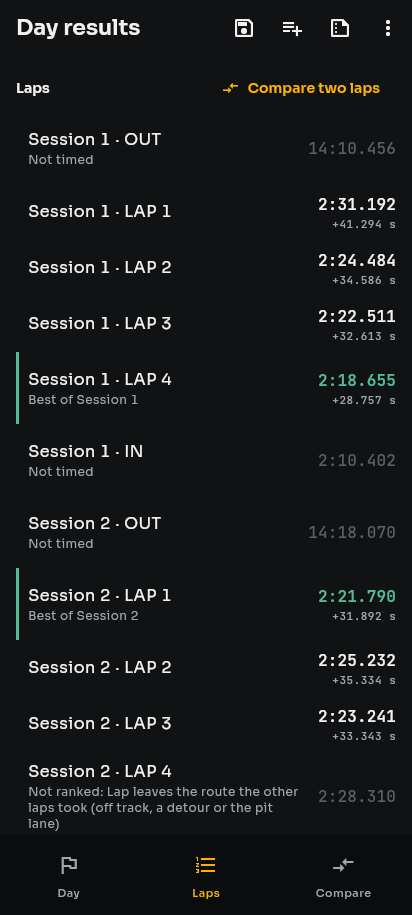
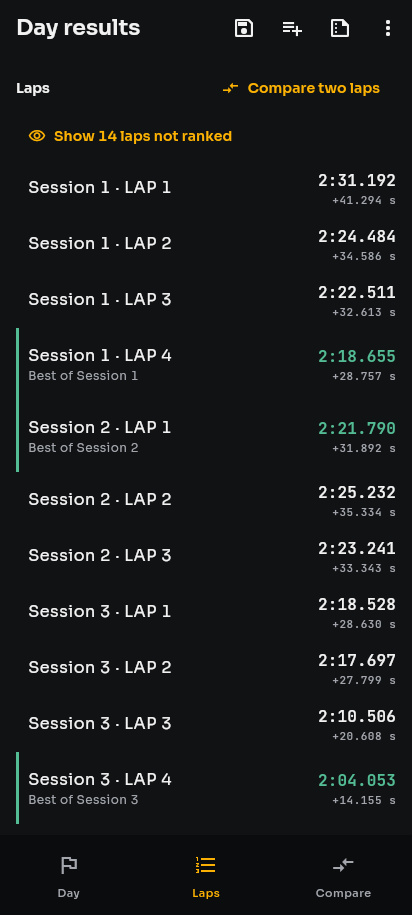
FET-153: hide laps not ranked in the lap list, with a show/hide button
Out laps, in laps, sections without a start/finish pass, excluded laps
and laps with an issue are hidden from the day's lap list by default.
"Show N laps not ranked" brings them back; the choice is remembered on
the device in settings.json. Only the list changes: the day, its
.fetproject and the recordings keep every lap. With no ranked lap the
list shows everything. Guide, screenshots and Polish strings updated.

Claude-Session: https://claude.ai/code/session_015nymQH33NBGSSd59iCbhRx

diff --git a/test/day/day_results_page_test.dart b/test/day/day_results_page_test.dart
@@ -19,6 +19,7 @@ import 'package:telemetry/format.dart';
 import 'package:telemetry/main.dart';
 import 'package:telemetry/settings_dialog.dart';
 import 'package:telemetry/ui/theme.dart';
+import 'package:telemetry/units.dart';
 import 'package:telemetry_core/telemetry_core.dart';
 
 import 'blank_tiles.dart';
@@ -151,9 +152,53 @@ void main() {
       find.text(displayDelta(second.durationSeconds - best.durationSeconds)),
       findsOneWidget,
     );
-    // OUT, 3 laps, IN; OUT, 2 laps, IN.
+    // OUT, 3 laps, IN; OUT, 2 laps, IN: the out and in laps are not
+    // ranked, so the list hides them until asked.
+    addTearDown(() => hideUnrankedLapsSetting.value = true);
+    expect(hideUnrankedLapsSetting.value, isTrue);
+    expect(find.textContaining(' · OUT'), findsNothing);
+    expect(find.textContaining(' · IN'), findsNothing);
+    expect(find.textContaining(' · LAP '), findsNWidgets(5));
+    await tester.tap(find.text('Show 4 laps not ranked'));
+    await tester.pumpAndSettle();
     expect(find.textContaining(' · OUT'), findsNWidgets(2));
     expect(find.textContaining(' · IN'), findsNWidgets(2));
+    // The choice is the device's setting.
+    expect(hideUnrankedLapsSetting.value, isFalse);
+    await tester.tap(find.text('Hide laps not ranked'));
+    await tester.pumpAndSettle();
+    expect(find.textContaining(' · OUT'), findsNothing);
+    expect(hideUnrankedLapsSetting.value, isTrue);
+  });
+
+  testWidgets('with no ranked lap, the lap list shows every lap', (
+    tester,
+  ) async {
+    final outcome = importDay({
+      'a.vbo': [30, 28, 31],
+    });
+    final controller = DayResultsController(
+      runs: outcome.runs,
+      analysis: outcome.analysis!,
+    );
+    for (final lap in outcome.analysis!.ranking!.eligibleLaps.toList()) {
+      expect(controller.exclude(lap, 'Traffic'), isTrue);
+    }
+    expect(controller.ranking?.eligibleLaps ?? const [], isEmpty);
+    await tester.binding.setSurfaceSize(const Size(400, 1600));
+    addTearDown(() => tester.binding.setSurfaceSize(null));
+    await tester.pumpWidget(
+      TelemetryApp(home: DayResultsPage.controller(controller: controller)),
+    );
+    await tester.tap(find.widgetWithText(NavigationDestination, 'Laps'));
+    await tester.pumpAndSettle();
+    expect(hideUnrankedLapsSetting.value, isTrue);
+    expect(find.byKey(const ValueKey('lapsUnrankedToggle')), findsNothing);
+    expect(find.text('Excluded: Traffic'), findsNWidgets(3));
+    expect(find.textContaining(' · OUT'), findsOneWidget);
+    expect(find.textContaining(' · IN'), findsOneWidget);
+    // Hiding never changed the day.
+    expect(controller.analysis.rows, hasLength(5));
   });
 
   for (final (name, size, section) in [
@@ -279,6 +324,12 @@ void main() {
       );
 
       await tester.pageBack();
+      await tester.pumpAndSettle();
+      // The excluded lap leaves the list with the out and in laps, until
+      // they are shown.
+      addTearDown(() => hideUnrankedLapsSetting.value = true);
+      expect(find.text('Excluded: Traffic'), findsNothing);
+      await tester.tap(find.text('Show 3 laps not ranked'));
       await tester.pumpAndSettle();
       expect(find.text('Excluded: Traffic'), findsOneWidget);
       expect(find.text(second.displayName), findsWidgets);
@@ -477,6 +528,11 @@ void main() {
     await tester.pumpAndSettle();
     expect(find.text('Porównaj dwa okrążenia'), findsOneWidget);
     expect(find.text('Najlepsze okrążenie dnia'), findsOneWidget);
+    expect(find.text('Sesja 2 · OKR. WYJAZDOWE'), findsNothing);
+    addTearDown(() => hideUnrankedLapsSetting.value = true);
+    await tester.tap(find.text('Pokaż 4 niesklasyfikowane okrążenia'));
+    await tester.pumpAndSettle();
+    expect(find.text('Ukryj niesklasyfikowane okrążenia'), findsOneWidget);
     expect(find.text('Sesja 2 · OKR. WYJAZDOWE'), findsOneWidget);
     expect(find.text('Sesja 1 · OKR. 2'), findsWidgets);
 
@@ -725,6 +781,11 @@ void main() {
         home: DayResultsPage.opened(day: opened, documents: documents),
       ),
     );
+    await tester.pumpAndSettle();
+    // Hidden with the laps that are not ranked, and there when shown.
+    addTearDown(() => hideUnrankedLapsSetting.value = true);
+    expect(find.text('Excluded: Traffic'), findsNothing);
+    await tester.tap(find.byKey(const ValueKey('lapsUnrankedToggle')));
     await tester.pumpAndSettle();
     expect(find.text('Excluded: Traffic'), findsOneWidget);
     expect(

diff --git a/lib/units.dart b/lib/units.dart
@@ -38,6 +38,13 @@ final ValueNotifier<SpeedUnitSetting> speedUnitSetting = ValueNotifier(
 /// and kept in `settings.json` with [speedUnitSetting]. On by default.
 final ValueNotifier<bool> weatherLookupSetting = ValueNotifier(true);
 
+/// Whether the lap list hides the laps that are not ranked (out and in
+/// laps, sections without a start/finish pass, excluded laps and laps with
+/// an issue), chosen with the list's
+/// show and hide button and kept in `settings.json`. On by default. Only
+/// the list changes: the day and its recordings keep every lap.
+final ValueNotifier<bool> hideUnrankedLapsSetting = ValueNotifier(true);
+
 /// The speed unit each of the open day's recordings declares ("km/h",
 /// "mph", or empty when it declares none). Set when a day opens.
 List<String> declaredSpeedUnits = const [];
@@ -109,7 +116,8 @@ String displayUnit(String name, String unit) {
   return daySpeedUnit(declared, speedUnitSetting.value.unit);
 }
 
-/// Reads and keeps [speedUnitSetting] and [weatherLookupSetting] in
+/// Reads and keeps [speedUnitSetting], [weatherLookupSetting] and
+/// [hideUnrankedLapsSetting] in
 /// `settings.json` in the app's support folder. Off in `flutter test`.
 Future<void> loadSettings() async {
   if (kIsWeb || Platform.environment.containsKey('FLUTTER_TEST')) return;
@@ -132,6 +140,9 @@ Future<void> loadSettings() async {
       if (json is Map && json['weatherLookup'] is bool) {
         weatherLookupSetting.value = json['weatherLookup'] as bool;
       }
+      if (json is Map && json['hideUnrankedLaps'] is bool) {
+        hideUnrankedLapsSetting.value = json['hideUnrankedLaps'] as bool;
+      }
     }
   } on Exception catch (error) {
     debugPrint('Settings not read: $error');
@@ -143,6 +154,7 @@ Future<void> loadSettings() async {
         jsonEncode({
           'speedUnit': speedUnitSetting.value.name,
           'weatherLookup': weatherLookupSetting.value,
+          'hideUnrankedLaps': hideUnrankedLapsSetting.value,
         }),
       );
     } on Exception catch (error) {
@@ -152,6 +164,7 @@ Future<void> loadSettings() async {
 
   speedUnitSetting.addListener(write);
   weatherLookupSetting.addListener(write);
+  hideUnrankedLapsSetting.addListener(write);
 }
 
 /// Rebuilds what shows a speed unit when [speedUnitSetting] changes; put

diff --git a/lib/day/day_results_page.dart b/lib/day/day_results_page.dart
@@ -16,6 +16,7 @@ import '../import/day_import_page.dart'
 import '../import/import_review_page.dart';
 import '../l10n.dart';
 import '../settings_dialog.dart';
+import '../units.dart' show hideUnrankedLapsSetting;
 import 'background_task.dart';
 import 'channel_cards.dart';
 import 'comparison_page.dart';
@@ -1550,7 +1551,45 @@ class _DayResultsPageState extends State<DayResultsPage> {
             ),
         ],
       ),
-      for (final row in _controller.analysis.rows) _lapTile(context, row),
+      ..._lapRows(context),
+    ];
+  }
+
+  /// The lap list's rows. The laps that are not ranked (out and in laps,
+  /// sections without a start/finish pass, excluded laps, laps with an
+  /// issue) are hidden while the setting says so and the day has a ranked
+  /// lap to show instead; a button shows or hides them. The day keeps every
+  /// lap either way.
+  List<Widget> _lapRows(BuildContext context) {
+    final l10n = context.l10n;
+    final rows = _controller.analysis.rows;
+    final ranked = {
+      for (final row in rows)
+        if (row.type == LapSectionType.lap && _controller.issues(row).isEmpty)
+          row.reference,
+    };
+    final unranked = rows.length - ranked.length;
+    if (unranked == 0 || unranked == rows.length) {
+      return [for (final row in rows) _lapTile(context, row)];
+    }
+    final hide = hideUnrankedLapsSetting.value;
+    return [
+      Align(
+        alignment: AlignmentDirectional.centerStart,
+        child: TextButton.icon(
+          key: const ValueKey('lapsUnrankedToggle'),
+          onPressed: () =>
+              setState(() => hideUnrankedLapsSetting.value = !hide),
+          icon: Icon(
+            hide ? Icons.visibility_outlined : Icons.visibility_off_outlined,
+          ),
+          label: Text(
+            hide ? l10n.lapsShowUnranked(unranked) : l10n.lapsHideUnranked,
+          ),
+        ),
+      ),
+      for (final row in rows)
+        if (!hide || ranked.contains(row.reference)) _lapTile(context, row),
     ];
   }
 

diff --git a/docs/user-guide/pages/laps.html b/docs/user-guide/pages/laps.html
@@ -1,11 +1,14 @@
 <!-- title: The lap list | nav: The lap list -->
 <h1 id="laps">The lap list</h1>
-<p class="lead">Every part of every session, in the order it was driven: out laps, laps, in laps. On a phone it is the <strong>Laps</strong> section of the bottom bar.</p>
+<p class="lead">The ranked laps of every session, in the order they were driven. On a phone it is the <strong>Laps</strong> section of the bottom bar.</p>
 
 <figure class="phone">
-  <img src="assets/screens/phone-laps.png" alt="The Laps section on a phone, listing each session's OUT, LAP and IN sections, with times on the right" width="412" height="915" loading="lazy">
+  <img src="assets/screens/phone-laps.png" alt="The Laps section on a phone: Show 14 laps not ranked above the ranked laps of each session, with times on the right" width="412" height="915" loading="lazy">
   <figcaption>The Laps section on a Pixel-sized screen.</figcaption>
 </figure>
+
+<h2 id="hidden">Laps that are not ranked</h2>
+<p>Out laps, in laps, sections without a start/finish pass, laps you excluded and laps with an issue are hidden, so the list shows only the laps that count. A session with no ranked lap appears only while they are shown. <strong>Show N laps not ranked</strong> above the list brings them back, in their place between the other laps; <strong>Hide laps not ranked</strong> hides them again. The app remembers your choice on this device. Hiding changes only the list: the day, its saved file and the recordings keep every lap. When no lap of the day is ranked, the list shows them all.</p>
 
 <h2 id="row">Reading a row</h2>
 <ul>

diff --git a/lib/l10n/app_localizations.dart b/lib/l10n/app_localizations.dart
@@ -7046,6 +7046,18 @@ abstract class AppLocalizations {
   /// In en, this message translates to:
   /// **'Kept as stored: this day\'s weather was saved by a newer version of the app.'**
   String get weatherKept;
+
+  /// Button above the lap list that shows the hidden laps that are not ranked: out laps, in laps, laps the driver excluded and laps with an issue.
+  ///
+  /// In en, this message translates to:
+  /// **'{count, plural, =1{Show 1 lap not ranked} other{Show {count} laps not ranked}}'**
+  String lapsShowUnranked(int count);
+
+  /// Button above the lap list that hides the laps that are not ranked (out laps, in laps, excluded laps, laps with an issue). The day keeps them.
+  ///
+  /// In en, this message translates to:
+  /// **'Hide laps not ranked'**
+  String get lapsHideUnranked;
 }
 
 class _AppLocalizationsDelegate

diff --git a/docs/user-guide/pages/index.html b/docs/user-guide/pages/index.html
@@ -3,7 +3,7 @@
 <p class="lead">FlappedEar Telemetry turns a track day of RaceChrono recordings into lap times, your best lap on the map, and where the time goes. It runs on Android, iPhone and iPad, macOS and Windows.</p>
 
 <figure>
-  <img src="assets/screens/day-wide.png" alt="Day results: the best lap of the day on its map, coloured by speed, with every lap of the day listed on the right" width="1280" height="800" loading="lazy">
+  <img src="assets/screens/day-wide.png" alt="Day results: the best lap of the day on its map, coloured by speed, with the day's ranked laps listed on the right" width="1280" height="800" loading="lazy">
   <figcaption>The day's results: the best lap first, every lap of every session on the right.</figcaption>
 </figure>
 

diff --git a/lib/l10n/app_localizations_pl.dart b/lib/l10n/app_localizations_pl.dart
@@ -4757,4 +4757,19 @@ class AppLocalizationsPl extends AppLocalizations {
   @override
   String get weatherKept =>
       'Zachowana bez zmian: pogodę w tym dniu zapisała nowsza wersja aplikacji.';
+
+  @override
+  String lapsShowUnranked(int count) {
+    String _temp0 = intl.Intl.pluralLogic(
+      count,
+      locale: localeName,
+      other: 'Pokaż $count niesklasyfikowanych okrążeń',
+      few: 'Pokaż $count niesklasyfikowane okrążenia',
+      one: 'Pokaż 1 niesklasyfikowane okrążenie',
+    );
+    return '$_temp0';
+  }
+
+  @override
+  String get lapsHideUnranked => 'Ukryj niesklasyfikowane okrążenia';
 }

diff --git a/docs/user-guide/pages/lap.html b/docs/user-guide/pages/lap.html
@@ -20,7 +20,7 @@
 <figure>
   <img src="assets/screens/exclude-dialog.png" alt="Exclude this lap dialog with a Reason field" width="1280" height="800" loading="lazy">
 </figure>
-<p>The lap stays in the list as <em>Excluded: &lt;reason&gt;</em>. <strong>Include in ranking</strong> brings it back. Exclusions are saved with the day.</p>
+<p>While <a href="laps.html#hidden">laps that are not ranked</a> are hidden, the lap leaves the lap list with them; shown, it reads <em>Excluded: &lt;reason&gt;</em>. <strong>Include in ranking</strong> brings it back. Exclusions are saved with the day.</p>
 
 <h2 id="map">The map</h2>
 <ul>

diff --git a/lib/l10n/app_localizations_en.dart b/lib/l10n/app_localizations_en.dart
@@ -4646,4 +4646,18 @@ class AppLocalizationsEn extends AppLocalizations {
   @override
   String get weatherKept =>
       'Kept as stored: this day\'s weather was saved by a newer version of the app.';
+
+  @override
+  String lapsShowUnranked(int count) {
+    String _temp0 = intl.Intl.pluralLogic(
+      count,
+      locale: localeName,
+      other: 'Show $count laps not ranked',
+      one: 'Show 1 lap not ranked',
+    );
+    return '$_temp0';
+  }
+
+  @override
+  String get lapsHideUnranked => 'Hide laps not ranked';
 }
